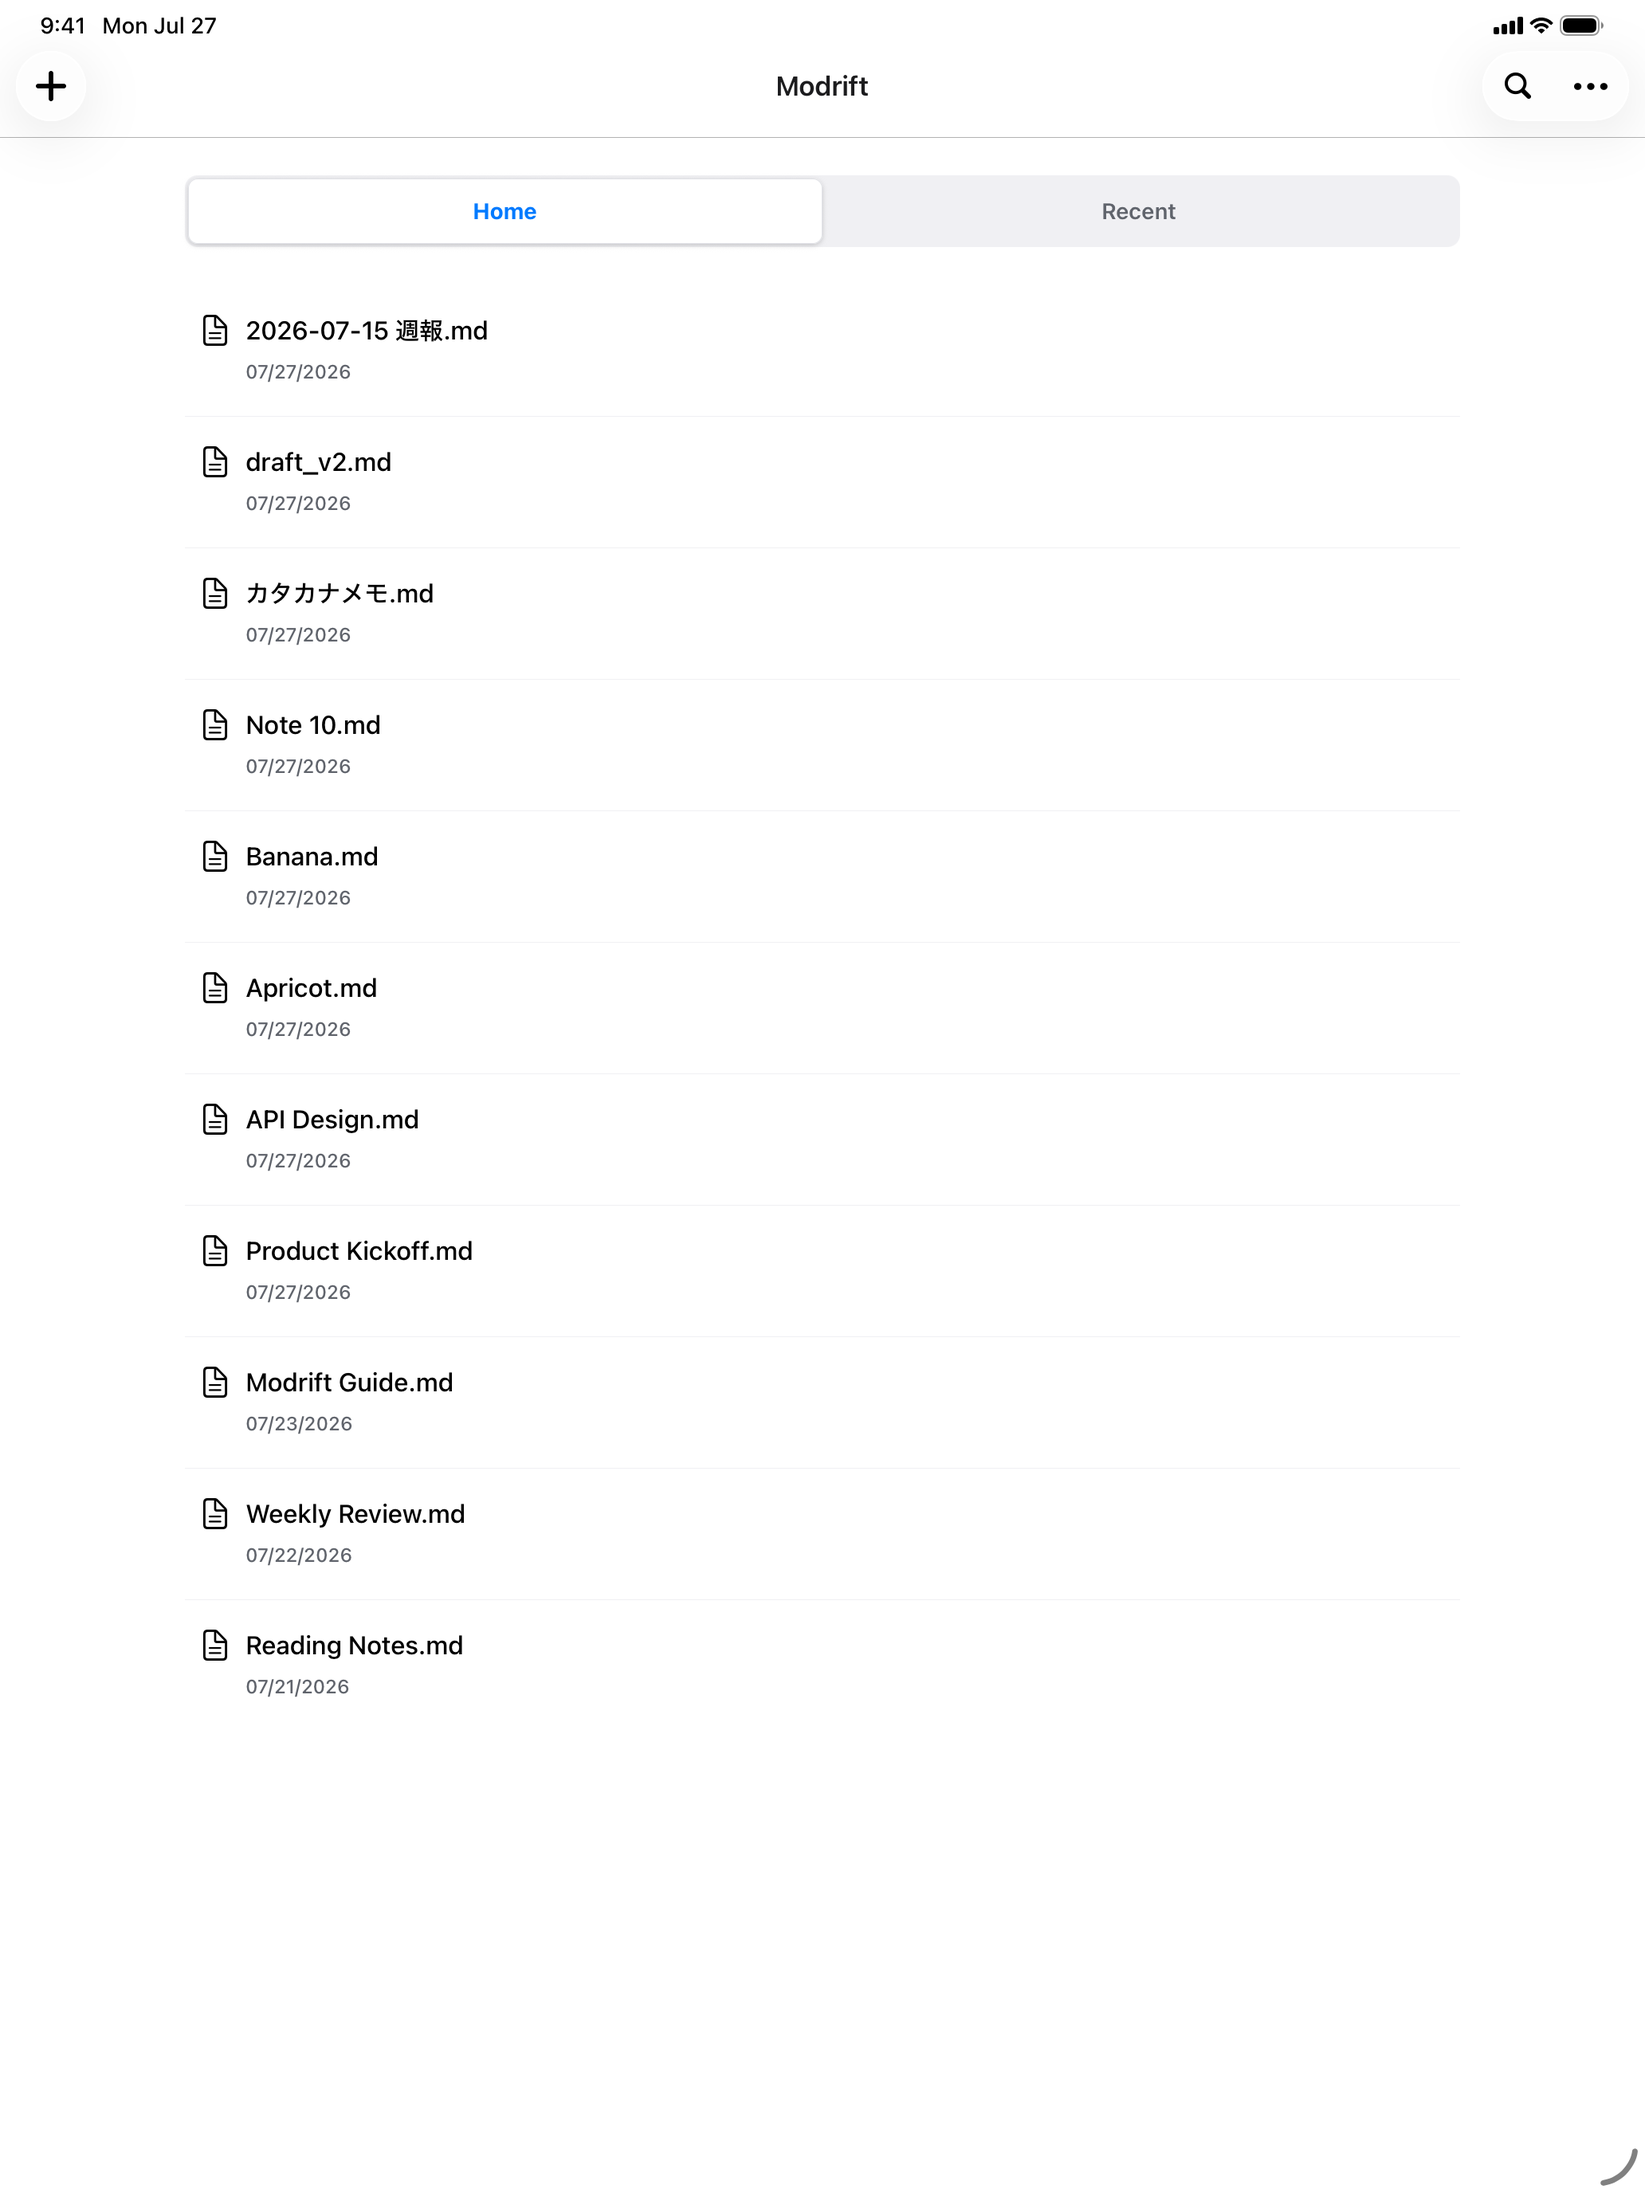
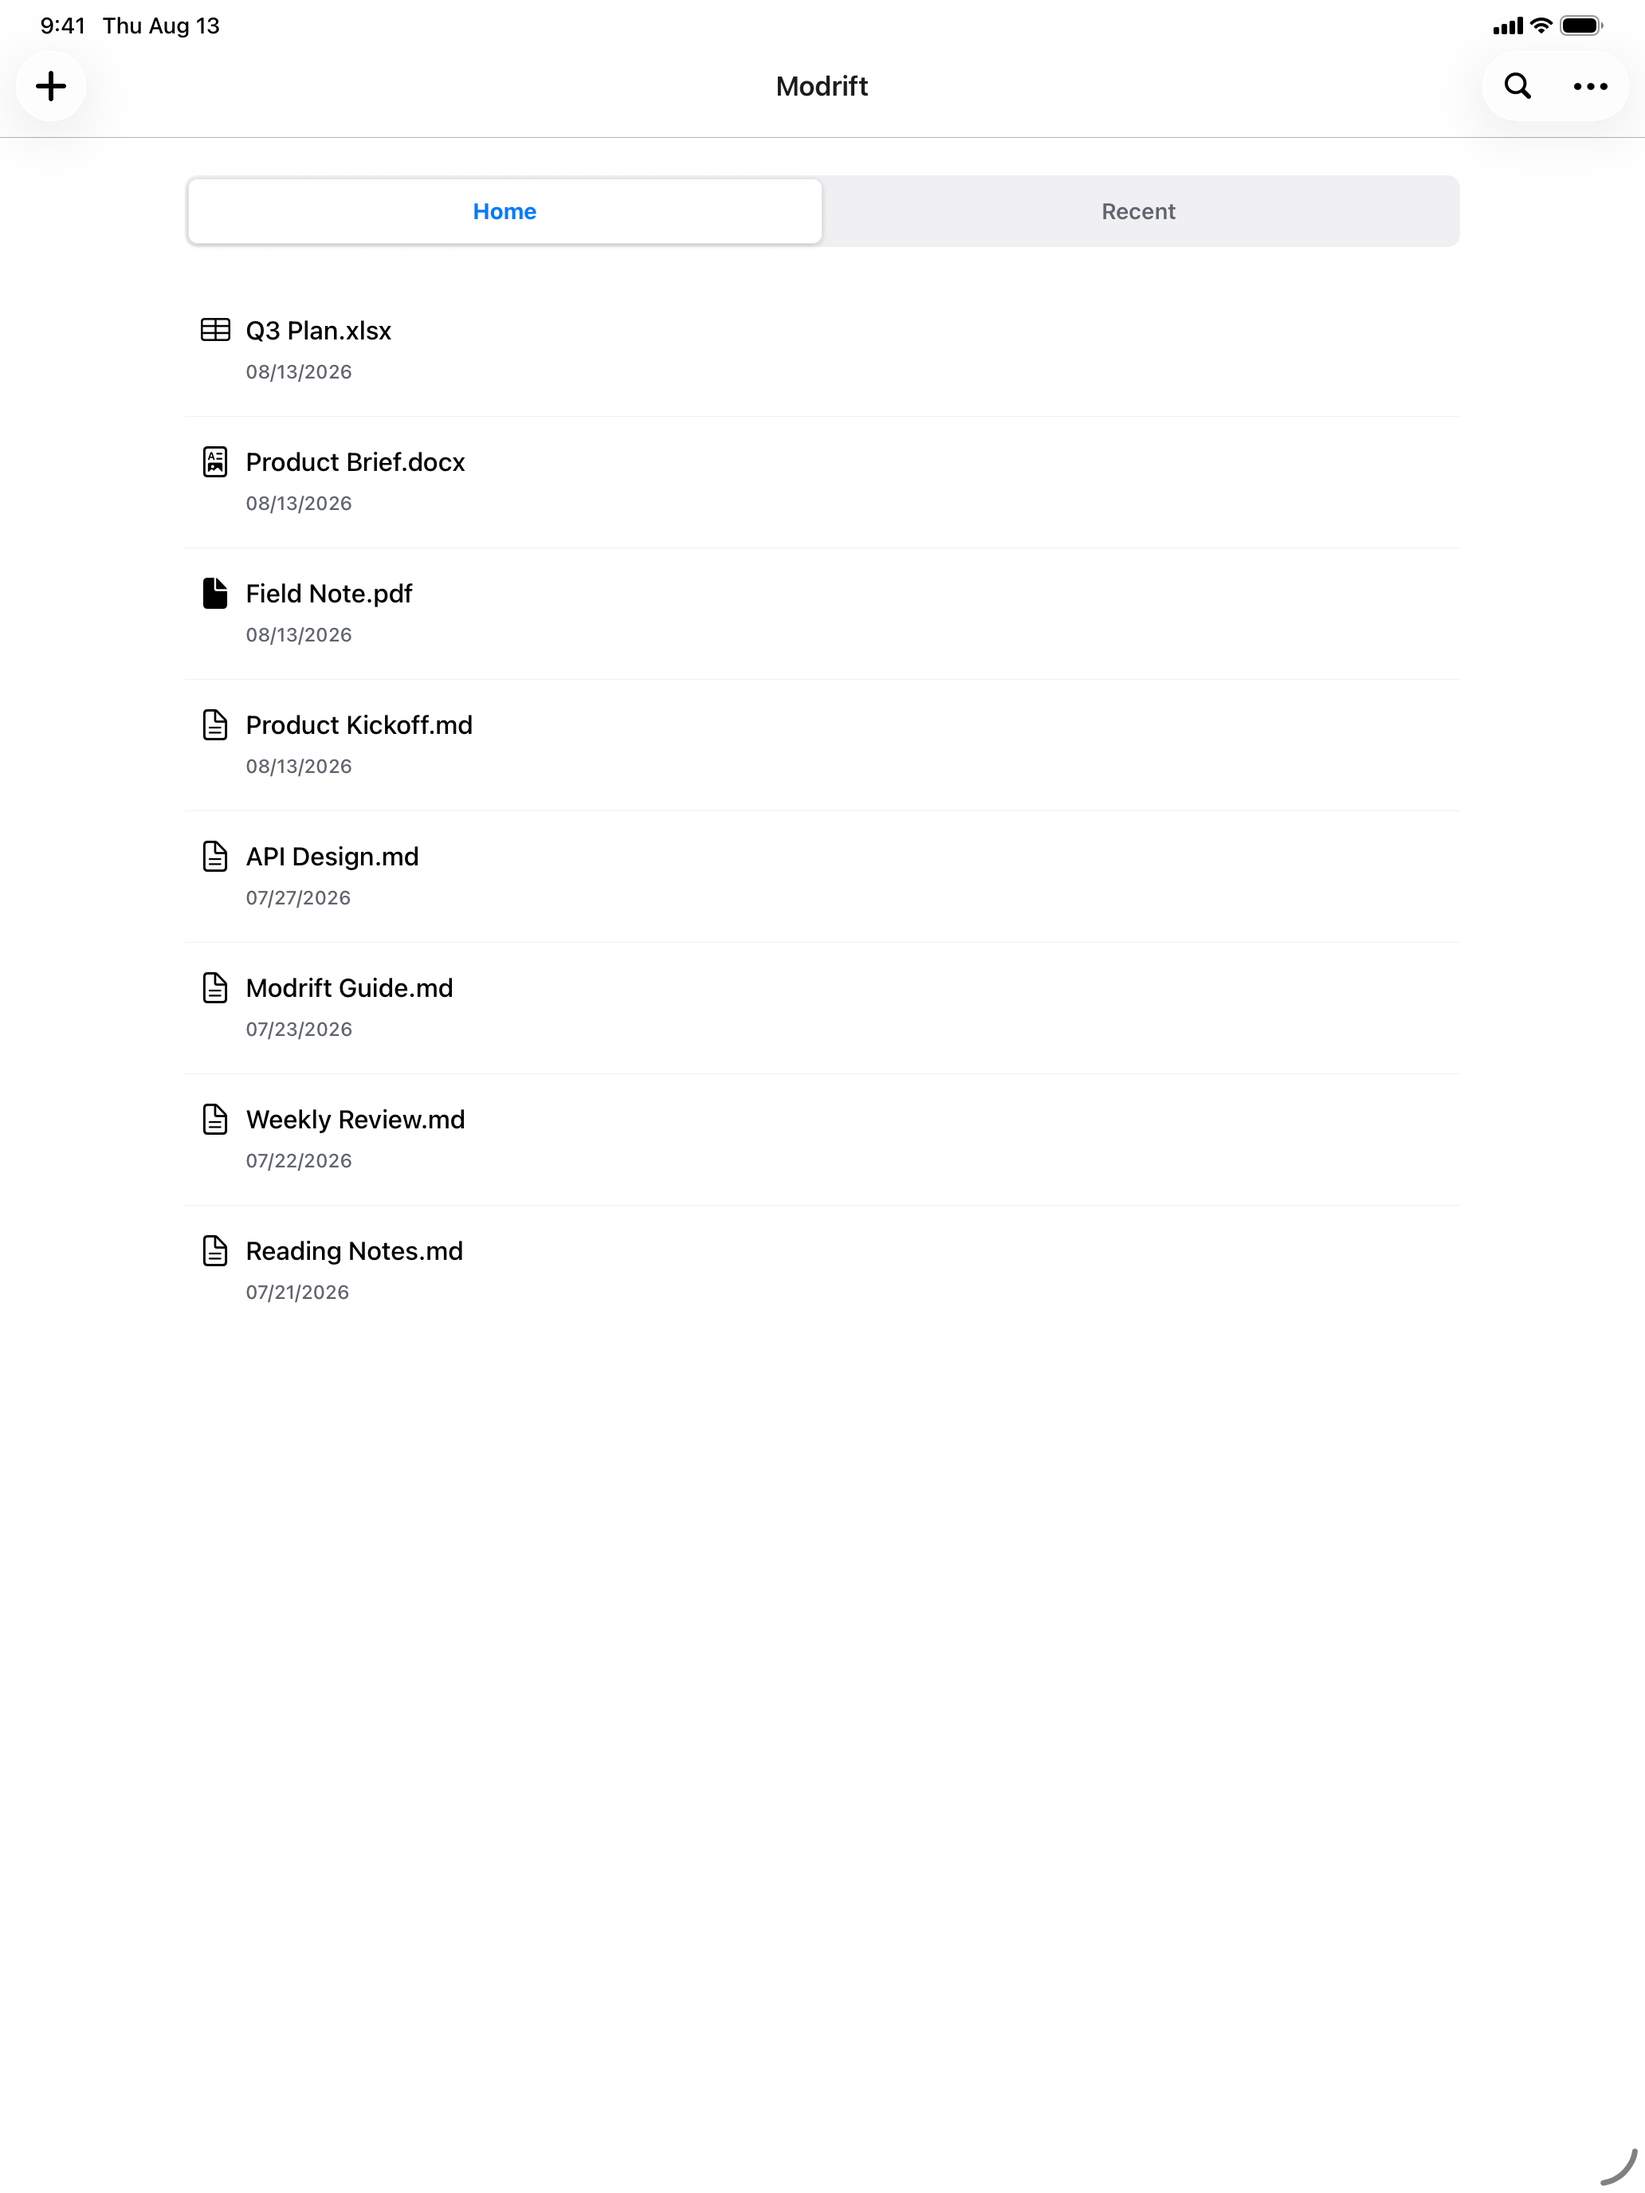
chore(v2): reshoot the store screenshots, and fix a recipe iOS broke
Six shots per device now: home, viewer, editor, PDF, Excel, Word. Settings
gave up its slot — selling a paid viewer with no picture of it is a poor trade,
while editing earns its place as the thing Modrift is still mainly for.

The recipe no longer worked. iOS 26.4 puts an unconditional "Open in ...?"
confirmation in front of every simctl openurl, custom scheme or not, running or
not, and nothing here can tap it. Navigation now goes through a temporary hook
that reads its destination from a file in the container, which skips the URL
layer entirely and is steadier than what it replaces.

Two traps cost real time and are written down. Forcing isPro true is not enough
on its own: short-circuiting the provider effect leaves isLoading stuck true,
so the viewers sit on "Loading..." instead of showing anything — the flag added
to protect paying customers from a paywall flash protected the screenshots from
the content too. And materializeFileCoordinated never resolves on a simulator
although readFileCoordinated does, so the v2 viewers hang there while working
fine on device.

Samples are generated rather than borrowed, since the user's real documents
have no business in a store listing.

diff --git a/docs/screenshot-recipe.md b/docs/screenshot-recipe.md
@@ -3,7 +3,46 @@
 毎リリースで App Store 用スクショ（iPhone 6.9" / iPad 13"）を**シミュレータだけで**撮るための手順。実機は不要。
 出力は `store-assets/screenshots/`（`iphone-69-0N-*.png` 1320×2868 / `ipad-13-0N-*.png` 2064×2752）。
 
-## 何がキモか（ハマりどころ）
+> **⚠ 2026-08-13 改訂**: **openurl 方式は使えなくなった。** iOS 26.4 では `simctl openurl` に対して **必ず「Open in "Modrift Dev"?」の確認ダイアログ**が出る（アプリの起動中・終了中を問わず、`modrift-dev://` でも出る）。タップ自動化が無いので、この経路は詰む。代わりに **アプリへ一時フックを仕込んで、コンテナ内のファイルから遷移先を読ませる**。詳細は下の「遷移方式（現行）」。以降の openurl の記述は経緯として残す。
+
+## 遷移方式（現行・2026-08-13〜）
+
+`src/app/index.tsx` の `HomeScreen` に**撮影用の一時フック**を足し、撮影後に戻す。
+
+```tsx
+// TEMP: store screenshots only — REVERT
+useEffect(() => {
+  try {
+    const f = new File(Paths.document, '.shot.json');
+    if (!f.exists) return;
+    const { pathname, params } = JSON.parse(f.textSync());
+    const id = setTimeout(() => router.push({ pathname, params }), 900);
+    return () => clearTimeout(id);
+  } catch {}
+}, [router]);
+```
+
+撮影ハーネスは `Documents/.shot.json` を書いてからアプリを再起動するだけ。**URL 層を通らないので確認ダイアログが出ない。**
+
+```sh
+printf '%s' '{"pathname":"/pdf-viewer","params":{"fileUri":"file://...","fileName":"Field Note.pdf"}}' > "$DOC/.shot.json"
+xcrun simctl terminate $U com.modrift.app.dev; xcrun simctl launch $U com.modrift.app.dev; sleep 15
+xcrun simctl io $U screenshot 04-pdf.png
+```
+
+### 有料形式（PDF / docx / xlsx）を撮るときの追加パッチ
+
+`.dev` の Bundle ID では App Store の商品を取得できないため、そのままでは Paywall が出る。撮影用に [`use-pro-entitlement.tsx`](../src/hooks/use-pro-entitlement.tsx) を2箇所いじる。**片方だけでは足りない**:
+
+- `useState(false)` → `useState(true)`（`isPro`）
+- `useState(isBillingConfigured)` → `useState(false)`（**`isLoading`**。effect を早期 return させると `isLoading` が永遠に true のままになり、ビューアが「Loading...」で止まる ← 実際に踏んだ）
+- provider の effect 先頭に `return;`
+
+さらに **シミュレータでは `materializeFileCoordinated` が解決しない**（Markdown の `readFileCoordinated` は動く）。PDF / docx / xlsx の3ビューアで、この呼び出しを `Promise.resolve(fileUri)` に一時置換する。**実機では正常なので、シミュレータ固有の問題**。
+
+**撮影後は必ず全パッチを戻し、`grep -rn "TEMP: store screenshots" src/` が空になることを確認する。**
+
+## 何がキモか（ハマりどころ・openurl 時代の記録）
 
 - アプリは **dev-client ビルド**。dev-client は起動時に **expo-dev-launcher** が動き、Metro に繋ぐか埋め込みバンドルをロードする。
 - **Metro に繋いだ状態だと `modrift-dev://` の openurl を dev-launcher が横取り**してアプリ内ルーティングに渡らない → 画面遷移できない。
@@ -85,7 +124,30 @@ defaults write com.apple.iphonesimulator ConnectHardwareKeyboard -bool true
 # 開発を続けるなら Metro を再開: npm run start:dev
 ```
 
-## 参考: 使った UDID（2026-07 時点・環境依存なので都度確認）
+## 検体ファイル（v2 以降）
 
-- iPhone 6.9": iPhone 17 Pro Max (iOS 26.2) — 1320×2868
+有料形式のスクショには PDF / docx / xlsx が要る。**利用者の実データは使わない**ので生成する:
+
+- **xlsx** — `@e965/xlsx` で書き出す（`XLSX.write(wb, {type:'buffer'})` + `fs.writeFileSync`。**`writeFile` は ESM だと `fs` が繋がっておらず "cannot save file" になる**）。スクリプトはプロジェクト直下に置いて実行しないと依存を解決できない
+- **docx** — 最小構成の OOXML を手で組んで zip する（`[Content_Types].xml` / `_rels/.rels` / `word/document.xml` / `word/styles.xml` / `word/_rels/document.xml.rels` の5ファイル）。mammoth は読み専用なので書けない
+- **PDF** — Swift + AppKit の `CGContext` PDF コンシューマ（`cupsfilter` に HTML→PDF フィルタが無いため）
+
+## 参考: 使った UDID（環境依存なので都度確認）
+
+- iPhone 6.9": iPhone 17 Pro Max — 1320×2868（2026-08 時点 `3D903E0F-…`）
 - iPad 13": iPad Pro 13-inch (M5) **iOS 26.4** — 2064×2752（iOS 26.2 の個体はネットワーク不良で真っ白 → 26.4 で解決）
+
+## v2 の構成（2026-08-13）
+
+編集を残しつつ新形式に枠を割いた6枚。旧 `04-settings` は落とした。
+
+| # | 画面 |
+|---|---|
+| 01 | ホーム |
+| 02 | Markdown ビューア |
+| 03 | Markdown 編集（ツールバー＋キーボード） |
+| 04 | PDF |
+| 05 | Excel（シートタブ・表） |
+| 06 | Word（見出し・箇条書き・表） |
+
+> **キーボードが日本語で写る**ことがある。`AppleKeyboards` を en_US だけにして **respring してから撮り直す**（`AppleLocale` も en_US にすると確実）。撮影の途中で sim を再起動すると設定が戻ることがあるので、**編集画面は最後に確認する**。

diff --git a/docs/adr-v2-pro-formats.md b/docs/adr-v2-pro-formats.md
@@ -498,6 +498,19 @@ EU で配信するには DSA 上のトレーダー申告が必要で、トレー
 
 > **lint で1つ学んだ**: `react-hooks/set-state-in-effect` は「effect 本体で同期的に setState するな」を強制する。初期化時の `setIsLoading(false)` は `useState(isBillingConfigured)` の遅延初期化に、初回取得は `.then()` の中に移して解消した。**どちらも回避策ではなく素直な形**で、effect は「外部システムを購読して、答えが返ってきたら state を更新する」という本来の姿になった
 
+### ストア用スクリーンショット (2026-08-13)
+
+iPhone 6.9" / iPad 13" で各6枚を**シミュレータだけで**撮り直した (`store-assets/screenshots/`)。編集画面を残しつつ、旧 `04-settings` を落として PDF / Excel / Word に枠を割いた — **有料機能を売るのに、その画面がストアに1枚も無いのは不利**という理由。
+
+**[撮影レシピ](screenshot-recipe.md)が壊れていたので書き換えた。** iOS 26.4 では `simctl openurl` に**必ず確認ダイアログ**が出るようになり (`modrift-dev://` でも、アプリの起動中・終了中を問わず)、タップ自動化の無いこの環境では deep link 経由の遷移が成立しない。代わりに **`Documents/.shot.json` を読んで起動時に遷移する一時フック**をアプリへ仕込む方式にした。URL 層を通らないのでダイアログが出ず、openurl より確実。
+
+**撮影のために踏んだ罠2つ**:
+
+- **`isPro` を true にするだけでは足りない。** provider の effect を早期 return させると **`isLoading` が永遠に true** のままになり、ビューアが Paywall ではなく「Loading...」で止まる。`isLoading` の初期値も false にする必要があった。**`isLoading` を足した設計がそのまま自分に跳ね返った**形
+- **シミュレータでは `materializeFileCoordinated` が解決しない** (Markdown の `readFileCoordinated` は動く)。撮影では `Promise.resolve(fileUri)` に一時置換して回避した。**実機では正常**なので製品側の問題ではないが、シミュレータで v2 ビューアを触るたびに再発する
+
+検体は利用者の実データを使わず生成した (xlsx = SheetJS で書き出し、docx = 最小 OOXML を手組み、PDF = Swift + `CGContext`)。手順はレシピに記録。
+
 ## 未確定事項 (実装着手時)
 
 - [x] **実物の xlsx を開く** → **実施 (2026-08-07)**。4シート・最大 1012行×40列・11,371セル・数式 2,046・結合 136 の実在ワークブック。**懸案の優先順位が入れ替わった** — 色の欠落より、**列幅 (`!cols`) が無視されて金額列が画面外に出る**ことと、**レイアウト用の空行がそのまま描画されて最初の1画面がほぼ空白になる**ことの方が実用上痛い。加えて、**スパイクの「1行目＝ヘッダー」という仮定が即座に否定された** (1行目は表題、別シートでは空行) ので撤去した。**この文書には元号書式が1つも無く、本 ADR 最大の発見だった和暦シムは出番が無かった** — シムの価値は文書次第という位置づけに改める。詳細は [FR-43](Requirements.md#fr-43-xlsx-閲覧-v2--pro)
